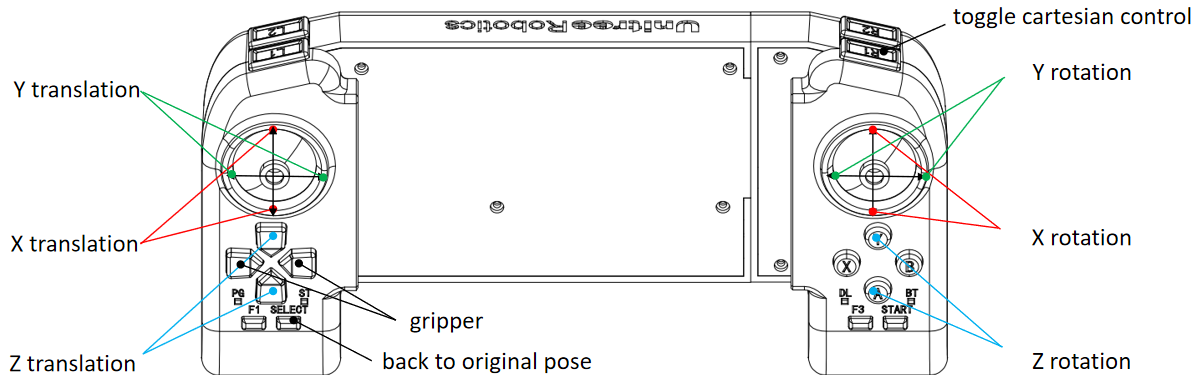
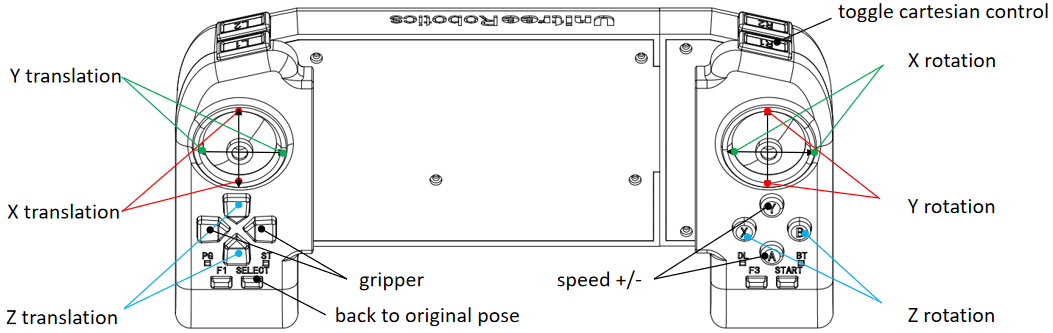
joystick control update

diff --git a/6-joystick controller/README.md b/6-joystick controller/README.md
@@ -18,10 +18,13 @@ There are three control modes using the joystick to control Z1.
 
 ### Joint Space Control
 
-When B1 robot stops, press **L1+L2 button at the same time** to switch to Z1 robot arm to be controlled, and B1 robot will no longer move. Then press **R2 button** to enter the joint space control mode. You can control individual joints by using the joystick as shown in the figure below. When Z1 robot arm finish the movement, press **SELECT** to return it to its original position. 
++ B1
+
+When B1 robot stops, press **L1+L2** button at the same time to switch to Z1 robot arm to be controlled, and B1 robot will no longer move. Then press **R2 button** to enter the joint space control mode. You can control individual joints by using the joystick as shown in the figure below. After the movement is finished, if you want the Z1 robot arm to keep the current attitude still, you can press **L2+R2** at the same time, and the robot arm will no longer receive the control information from the joystick. Then you can press **L1+L2** to control B1 robot while keeping the Z1 robot arm in the current posture. When B1 robot stops, press **L1+L2** button at the same time to switch to Z1 robot arm to be controlled, and B1 robot will no longer move. Then press **R2 button** to continue to control the Z1 robot arm. When Z1 robot arm finish the movement, press **SELECT** to return it to its original position. 
+
 
 <center>
-<img src="../img/joystick_joint control.png" style="zoom:100%" alt=" 图片不见了。。。 "/>
+<img src="../img/joystick_joint contrOl.png" style="zoom:100%" alt=" 图片不见了。。。 "/>
 <br>
 <div style="color:orange; border-bottom: 0.1px solid #d9d9d9;
 display: inline-block;
@@ -32,10 +35,10 @@ padding: 1px;">Joint Space Control</div>
 
 ### Cartesian Space Control
 
-When B1 robot stops, press **L1+L2 button at the same time** to switch to Z1 robot arm to be controlled, and B1 robot will no longer move. Then, or when Z1 robot arm is in the joint space control mode, press **R1 button** to enter the cartesian space control mode as shown in the figure below. When Z1 robot arm finish the movement, press **SELECT** to return it to its original position. 
+When B1 robot stops, press **L1+L2** button at the same time to switch to Z1 robot arm to be controlled, and B1 robot will no longer move. Then, or when Z1 robot arm is in the joint space control mode, press **R1** button to enter the cartesian space control mode as shown in the figure below. After the movement is finished, if you want the Z1 robot arm to keep the current attitude still, you can press **L2+R2** at the same time, and the robot arm will no longer receive the control information from the joystick. Then you can press **L1+L2** to control B1 robot while keeping the Z1 robot arm in the current posture. When B1 robot stops, press **L1+L2** button at the same time to switch to Z1 robot arm to be controlled, and B1 robot will no longer move. Then press **R2 or R1** button to continue to control the Z1 robot arm. When Z1 robot arm finish the movement, press **SELECT** to return it to its original position. 
 
 <center>
-<img src="../img/joystick_cartesian control.png" style="zoom:100%" alt=" 图片不见了。。。 "/>
+<img src="../img/joystick_cartesian controL.png" style="zoom:100%" alt=" 图片不见了。。。 "/>
 <br>
 <div style="color:orange; border-bottom: 0.1px solid #d9d9d9;
 display: inline-block;
@@ -56,19 +59,26 @@ padding: 1px;">Robotic arm tool coordinate system</div>
 
 ### Fixed Trajectory Motion
 
-When B1 robot stops, press **L1+L2 button at the same time** to switch to Z1 robot arm to be controlled, and B1 robot will no longer move. Press the **R2 button** to enter the joint space control, then press the **R2+X** combination button at the same time the robot arm will enter the preset fixed trajectory movement. Press **SELECT** to return it to its original position. 
+When B1 robot stops, press **L1+L2** button at the same time to switch to Z1 robot arm to be controlled, and B1 robot will no longer move. Press the **R2** button to enter the joint space control, then press the **R2+X** combination button at the same time the robot arm will enter the preset fixed trajectory movement. Press **SELECT** to return it to its original position. 
 
 ## Cautions
 
-Since the B1 robot and the Z1 are controlled with the same joystick, there is a partial button sharing, therefore, when controlling the B1 robot movement, press **L1+L2 at the same time** to switch the Z1 robot arm into the passive state. To determine whether the Z1 is in the passive state, drag Z1 by hand; if it can be dragged, it is switch into the passive state. To control the movement of the robot arm, the B1 robot needs to be in the stop state.
+Since the B1 robot and the Z1 are controlled with the same joystick, there is a partial button sharing, therefore, when controlling the B1 robot movement, press **R1+R2** at the same time to switch the Z1 robot arm into the passive state or press **L2+R2** at the same time to keep the Z1 robot arm in the current posture. To determine whether the Z1 is in the passive state, drag Z1 by hand; if it can be dragged, it is switch into the passive state. To control the movement of the robot arm, the B1 robot needs to be in the stop state.
 
 ## log update
 
++ 2022.1.5
+
+    1. Key mapping optimization.
+    2. Add new function of adjusting speed for joint and cartesian space control.
+    3. Add new function of controlling B1 robot while keeping Z1 robot arm in a fixed posture.
+    4. Replace the **L1+L2** button with the **R1+R2** button to switch the Z1 robot arm into the passive state.
+
 + 2022.10.19
 
-    1. Replace the R2 button with the SELECT button to return the robot arm to the original position.
-    2. The SELECT button no longer controls the robot arm to make fixed trajectory movements, and is replaced by the R2+X combination button.
-    3. Replace the R1+R2 button with the L1+L2 button to switch the Z1 robot arm into the passive state.
+    1. Replace the **R2** button with the **SELECT** button to return the robot arm to the original position.
+    2. The **SELECT** button no longer controls the robot arm to make fixed trajectory movements, and is replaced by the **R2+X** combination button.
+    3. Replace the **R1+R2** button with the **L1+L2** button to switch the Z1 robot arm into the passive state.
 
 + 2022.9.14
 
